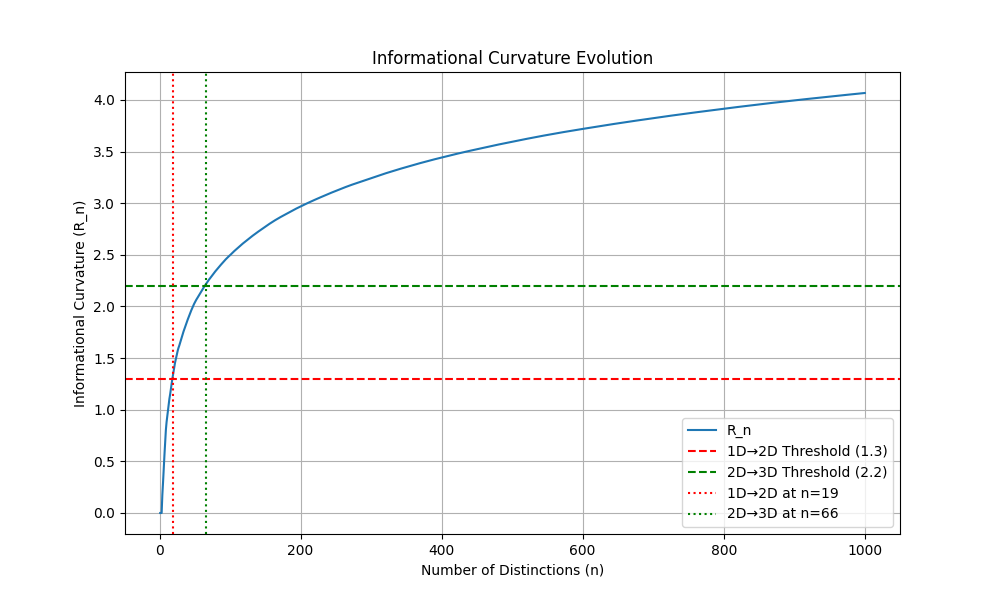
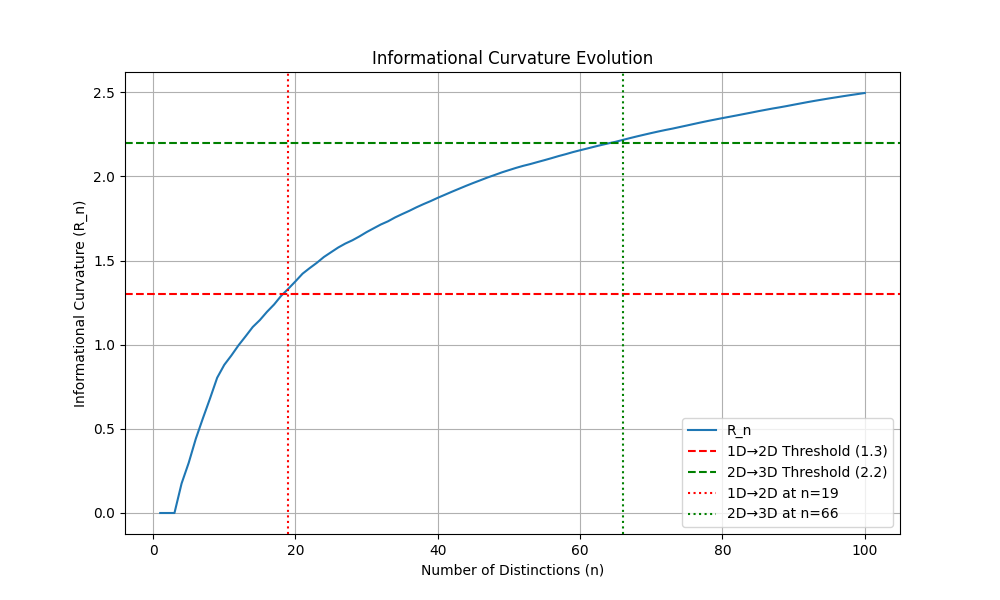
modified:   GU_DIM_Trans.py modified:   eigenvalue_ratios.png modified:   golomb_ruler_growth.png modified:   informational_curvature.png modified:   mutual_information_matrix.png

diff --git a/GU_DIM_Trans.py b/GU_DIM_Trans.py
@@ -106,7 +106,7 @@ def check_transitions(G, d_min, l_info, R_n):
     try:
         _, _, _, W = compute_metrics(G)
         D = np.diag(np.sum(W, axis=1))
-        L = D - W
+        L = D - W 
                                                                
         eigenvalues = eigh(L, eigvals_only=True, subset_by_index=[0, 3])
         λ0, λ1, λ2, λ3 = eigenvalues
@@ -118,8 +118,8 @@ def check_transitions(G, d_min, l_info, R_n):
         r1 = λ2 / λ1  # For 1D→2D
         r2 = λ3 / λ2  # For 2D→3D
 
-        transition_2D = (r1 > 1.3 and R_n > 1.3)
-        transition_3D = (r2 > 1.15 and R_n > 2.2)
+        transition_2D = (r1 > R_n)
+        transition_3D = (r2 < R_n)
 
         return transition_2D, transition_3D, r1, r2
                                                                                                    
@@ -173,8 +173,10 @@ def plot_results(G_full, results, metrics_history):
     plt.plot(ns, r2s, label='λ₃/λ₂ (2D→3D)')
     plt.axhline(y=1.3, color='r', linestyle='--', label='1D→2D Threshold (1.3)')
     plt.axhline(y=1.15, color='g', linestyle='--', label='2D→3D Threshold (1.15)')
-    plt.axvline(x=results.get('2D'), color='r', linestyle=':', label=f'1D→2D at n={results.get("2D")}')
-    plt.axvline(x=results.get('3D'), color='g', linestyle=':', label=f'2D→3D at n={results.get("3D")}')
+    if results.get('2D') is not None:
+       plt.axvline(x=results.get('2D'), color='r', linestyle=':', label=f'1D→2D at n={results.get("2D")}')
+    if results.get('3D') is not None:
+       plt.axvline(x=results.get('3D'), color='g', linestyle=':', label=f'2D→3D at n={results.get("3D")}')
     plt.xlabel('Number of Distinctions (n)')
     plt.ylabel('Eigenvalue Ratios')
     plt.title('Eigenvalue Ratios for Dimensional Transitions')
@@ -189,8 +191,10 @@ def plot_results(G_full, results, metrics_history):
     plt.plot(ns, R_ns, label='R_n')
     plt.axhline(y=1.3, color='r', linestyle='--', label='1D→2D Threshold (1.3)')
     plt.axhline(y=2.2, color='g', linestyle='--', label='2D→3D Threshold (2.2)')
-    plt.axvline(x=results.get('2D'), color='r', linestyle=':', label=f'1D→2D at n={results.get("2D")}')
-    plt.axvline(x=results.get('3D'), color='g', linestyle=':', label=f'2D→3D at n={results.get("3D")}')
+    if results.get('2D') is not None:
+       plt.axvline(x=results.get('2D'), color='r', linestyle=':', label=f'1D→2D at n={results.get("2D")}')
+    if results.get('3D') is not None:
+       plt.axvline(x=results.get('3D'), color='g', linestyle=':', label=f'2D→3D at n={results.get("3D")}')
     plt.xlabel('Number of Distinctions (n)')
     plt.ylabel('Informational Curvature (R_n)')
     plt.title('Informational Curvature Evolution')
@@ -293,7 +297,8 @@ def simulate(n_max):
 
 # Run simulation
 print("Starting simulation...")
-results = simulate(1000)
+results = simulate(500)
 print("\nFinal Results:")
 print(f"1D→2D transition at n={results['2D']}")
 print(f"2D→3D transition at n={results['3D']}")
+
